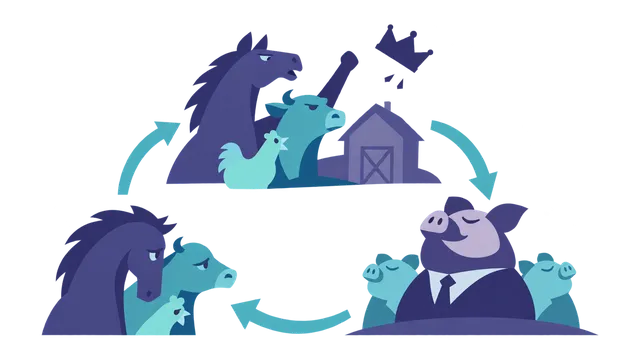
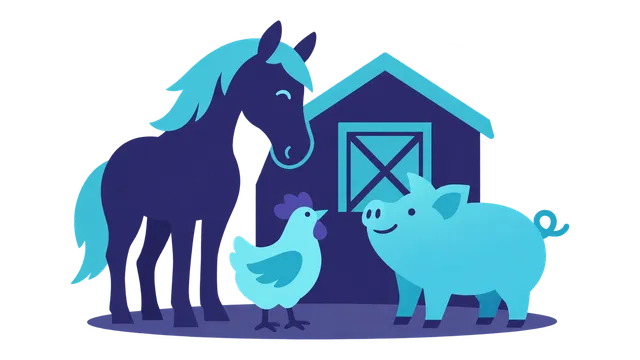
Srozumitelnější znak u 600 a jednoduchá farmářská scéna u 623

diff --git a/docs/ilustrace-handoff.md b/docs/ilustrace-handoff.md
@@ -1,15 +1,19 @@
 # Ilustrace — aktuální stav
 
+## Zjednodušení ilustrací 600 a 623
+
+`600` používá běžně srozumitelný symbol: červenou značku STOP a auto zastavené před čárou. Ilustruje dohodnutý znak a jeho pochopení; nevysvětluje všechny tři Peircovy kategorie. `623` ukazuje jedinou scénu s koněm, prasetem a slepicí před stodolou, bez šipek a dalších dějových fází. Obě náhrady byly porovnány s originály při 160×90 a 320×180 px na tmavé kartě. Jsou zapnuté v kartách i galerii, 640×360 RGBA WebP, alfa všech rohů 0; velikosti 19 702 a 29 816 B. Vestavěný image_gen použil skutečnou průhlednost bez dostupného řízení rozměrů, kvality a ceny generování. Přesné prompty, původní metadata, hashe i předchozí verze zachovává manifest. Články a metadata se nemění, počet zůstává 766 ilustrovaných příspěvků. Významovou a technickou kontrolu eviduje `reports/illustration-repair-600-623.json`; kontrola souborů i oba testy `npm test` prošly.
+
 <!-- batch-623-start -->
 ## Doplnění zbývajících ilustrací 623–866
 
 Všech 244 požadovaných ilustrací je dokončených, vizuálně zkontrolovaných a zapnutých v kartách i galerii. Všech 766 příspěvků v aktuální databázi má vlastní statický WebP soubor a registraci; žádná ilustrace nechybí. Stav dávky uvádí `reports/illustration-generation-623-866.json`, kompletní validaci `reports/illustration-validation-623-866.json`. Příprava 847–866 je uzavřená v `reports/illustration-pending-847-866.json`; dřívější limit generátoru je vyřešený, zachovaný pouze jako historie.
 
-Vestavěný image_gen používá skutečnou průhlednost; řízení rozměrů, kvality a ceny generování není dostupné. Finální WebP mají 640×360 px, nulovou alfu rohů a velikost pod 100 kB. Celá nová dávka má 6 379 514 B; jednotlivé soubory 9 488–77 280 B. Všechny nové motivy byly prohlédnuté při 160×90 a 320×180 px na tmavém povrchu. Přesné prompty, původní metadata, zdroje, hashe a významové poznámky zachovává manifest.
+Vestavěný image_gen používá skutečnou průhlednost; řízení rozměrů, kvality a ceny generování není dostupné. Finální WebP mají 640×360 px, nulovou alfu rohů a velikost pod 100 kB. Celá nová dávka 623–866 má po náhradě 623 6 374 762 B; jednotlivé soubory 9 488–77 280 B. Všechny nové motivy byly prohlédnuté při 160×90 a 320×180 px na tmavém povrchu. Přesné prompty, původní metadata, zdroje, hashe a významové poznámky zachovává manifest.
 
 Historické a literární scény jsou redakční stylizace, nikoli autentické rekonstrukce. Ilustrace mohou doprovázet vybraný aspekt článku; nevysvětlují všechny mechanismy. Výstupy místy překračují cílový počet ploch, barev a stínových rovin. Barevné stíny 851 zachovávají opačné odstíny podle blokovaného světla; pinyin 854 používá mā → 妈, německá věta 855 správně zvýrazňuje Haus. Klaviatura 856 má sedm bílých a pět černých kláves. Portrét 859 ilustruje obecný jev malovaného pohledu, nikoli měření skutečného směru očí Mony Lisy. Strom 866 ukazuje rozdílné délky kódových cest bez vymyšlených četností. Další omezení jsou u jednotlivých položek manifestu.
 
-Během dávky jednou selhalo spojení u 748; opakování uspělo. Jedna cílená oprava 833 změnila původní modrý drahokamový vzhled na rozpoznatelný zlatavý jantar; původní prompt, zdroj a hash jsou zachované v previousVersion. Ostatní přijaté ilustrace se nepřegenerovaly. Články, metadata a všechny starší obrázky zůstaly beze změny. Deterministický repair proběhl pouze v náhledu. Procedurální renderer ani zlaté otisky se nepoužívají.
+Během dávky jednou selhalo spojení u 748; opakování uspělo. Jedna cílená oprava 833 změnila původní modrý drahokamový vzhled na rozpoznatelný zlatavý jantar; původní prompt, zdroj a hash jsou zachované v previousVersion. Mimo výše uvedené uživatelské náhrady se ostatní přijaté ilustrace nepřegenerovaly. Články a metadata zůstaly beze změny; výše uvedené cílené náhrady jsou jediné následné změny obrázků. Deterministický repair proběhl pouze v náhledu. Procedurální renderer ani zlaté otisky se nepoužívají.
 
 Prošly kontroly rozměrů, alfa kanálu, velikosti, SHA-256 obrázků a promptů, registrace všech příspěvků i nezměněných dat. Oba testy `npm test` a produkční `npm run build` prošly.
 <!-- batch-623-end -->
